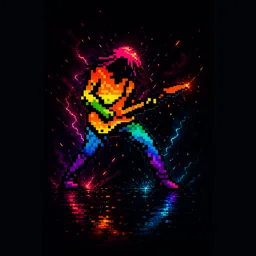
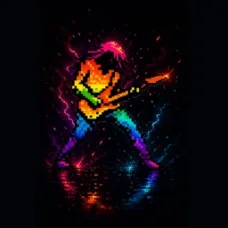
Update

diff --git a/fr/icon-studio/index.html b/fr/icon-studio/index.html
@@ -332,20 +332,20 @@
     <!-- Appel à l'action de clôture -->
     <div class="mx-auto max-w-5xl px-5 pt-24 pb-28 text-center sm:px-6 sm:pt-28 sm:pb-36">
       <h2 class="mx-auto max-w-2xl text-4xl font-semibold tracking-tight text-balance sm:text-6xl">Toutes les tailles d'icônes — à partir d'un seul logo.</h2>
-      <p class="mx-auto mt-5 max-w-lg text-lg text-white/70">Gratuit, privé et rapide. Tout se passe sur votre Mac — sans compte, sans piège.</p>
+      <p class="mx-auto mt-5 max-w-lg text-lg text-white/80">Gratuit, privé et rapide. Tout se passe sur votre Mac — sans compte, sans piège.</p>
       <button type="button" data-download-trigger class="mt-10 inline-flex h-14 items-center justify-center gap-2 rounded-2xl bg-white px-10 text-base font-semibold text-brand-600 transition hover:bg-white/90">
         Télécharger Luere Icon Studio — c'est gratuit
         <svg class="size-5" viewBox="0 0 16 16" fill="none" aria-hidden="true"><path d="M8 3v7m0 0l3-3m-3 3L5 7M3 13h10" stroke="currentColor" stroke-width="1.5" stroke-linecap="round" stroke-linejoin="round"/></svg>
       </button>
-      <p class="mt-5 text-xs text-white/60">Nécessite macOS 14 ou plus récent · Bientôt aussi sur le Mac App Store</p>
+      <p class="mt-5 text-xs text-white/80">Nécessite macOS 14 ou plus récent · Bientôt aussi sur le Mac App Store</p>
     </div>
 
     <!-- Ligne de pied de page -->
-    <div class="mx-auto flex max-w-5xl flex-col items-center justify-between gap-3 px-5 pb-10 text-sm text-white/70 sm:flex-row sm:px-6">
+    <div class="mx-auto flex max-w-5xl flex-col items-center justify-between gap-3 px-5 pb-10 text-sm text-white/80 sm:flex-row sm:px-6">
       <div class="flex items-center gap-2.5">
         <span class="font-logo text-lg font-bold leading-none text-white">LUERE</span>
-        <span class="text-white/70">Icon Studio</span>
-        <span class="text-white/50">© <span id="year">2026</span></span>
+        <span class="text-white/80">Icon Studio</span>
+        <span class="text-white/80">© <span id="year">2026</span></span>
       </div>
       <div class="flex flex-wrap items-center justify-center gap-x-6 gap-y-2">
         <a href="../../icon-studio/index.html" hreflang="en" class="transition hover:text-white">English</a>

diff --git a/icon-studio/index.html b/icon-studio/index.html
@@ -339,20 +339,20 @@
     <!-- Closing CTA -->
     <div class="mx-auto max-w-5xl px-5 pt-24 pb-28 text-center sm:px-6 sm:pt-28 sm:pb-36">
       <h2 class="mx-auto max-w-2xl text-4xl font-semibold tracking-tight text-balance sm:text-6xl">Every icon size — from one logo.</h2>
-      <p class="mx-auto mt-5 max-w-lg text-lg text-white/70">Free, private, and fast. It all happens on your Mac — no account, no catch.</p>
+      <p class="mx-auto mt-5 max-w-lg text-lg text-white/80">Free, private, and fast. It all happens on your Mac — no account, no catch.</p>
       <button type="button" data-download-trigger class="mt-10 inline-flex h-14 items-center justify-center gap-2 rounded-2xl bg-white px-10 text-base font-semibold text-brand-600 transition hover:bg-white/90">
         Download Luere Icon Studio — it's free
         <svg class="size-5" viewBox="0 0 16 16" fill="none" aria-hidden="true"><path d="M8 3v7m0 0l3-3m-3 3L5 7M3 13h10" stroke="currentColor" stroke-width="1.5" stroke-linecap="round" stroke-linejoin="round"/></svg>
       </button>
-      <p class="mt-5 text-xs text-white/60">Requires macOS 14 or later · Also coming to the Mac App Store</p>
+      <p class="mt-5 text-xs text-white/80">Requires macOS 14 or later · Also coming to the Mac App Store</p>
     </div>
 
     <!-- Footer line -->
-    <div class="mx-auto flex max-w-5xl flex-col items-center justify-between gap-3 px-5 pb-10 text-sm text-white/70 sm:flex-row sm:px-6">
+    <div class="mx-auto flex max-w-5xl flex-col items-center justify-between gap-3 px-5 pb-10 text-sm text-white/80 sm:flex-row sm:px-6">
       <div class="flex items-center gap-2.5">
         <span class="font-logo text-lg font-bold leading-none text-white">LUERE</span>
-        <span class="text-white/70">Icon Studio</span>
-        <span class="text-white/50">© <span id="year">2026</span></span>
+        <span class="text-white/80">Icon Studio</span>
+        <span class="text-white/80">© <span id="year">2026</span></span>
       </div>
       <div class="flex flex-wrap items-center justify-center gap-x-6 gap-y-2">
         <a href="../fr/icon-studio/index.html" hreflang="fr" class="transition hover:text-white">Français</a>
